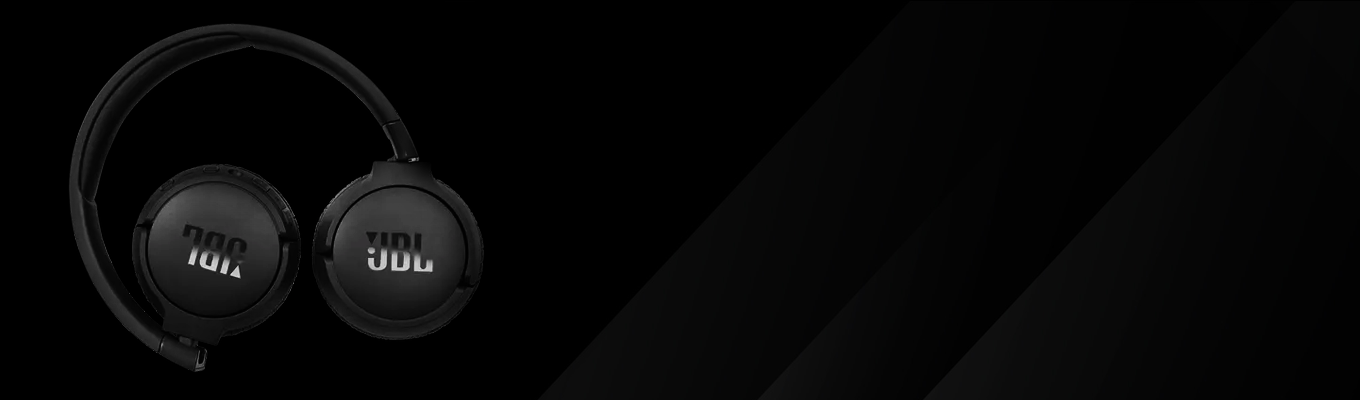
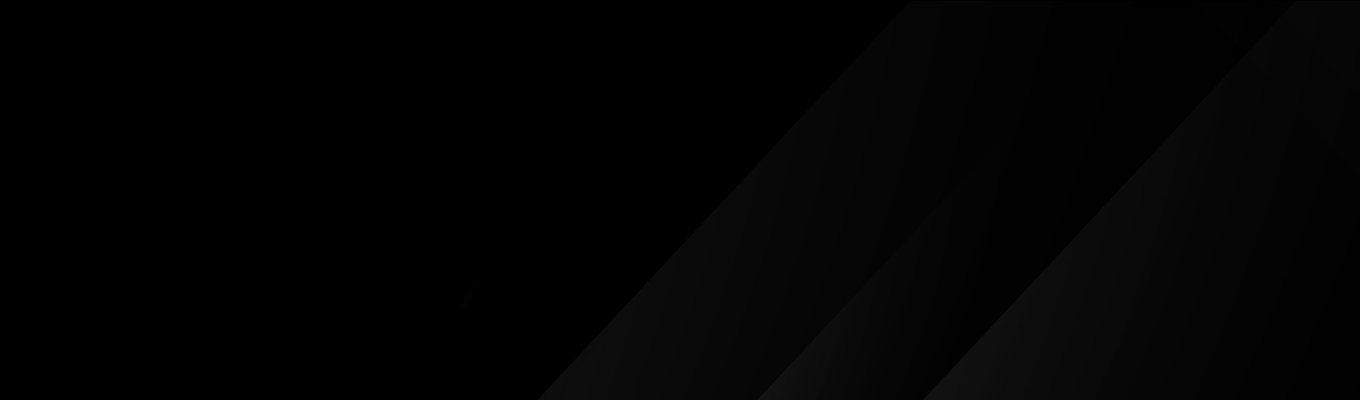
Att

Changed region(s): [[0.0309, 0.06, 0.3706, 0.93]]

diff --git a/css/style.css b/css/style.css
@@ -155,11 +155,13 @@ div#img2{
     background-image: url(../imagens/333.png);
     width: 100%;
     height: 400px;
-    box-shadow: inset 0px 10px 30px black;
+    box-shadow: inset 20px 50px 100px black;
+    display: flex;
+
 }
 div#info2{
     position: absolute;
-    right: 50px;
+    left: 50px;
 }
 div#info2 > h2 {
     font-size: 3em;
@@ -183,4 +185,10 @@ footer > p {
     font-size: 0.8em;
     text-align: center;
     font-family: sans-serif;
+}
+div#img3{
+    background-image: url(../imagens/teste.png);
+    height: 400px;
+    width: 500px;
+    box-shadow: inset 2px 0px 5px black;
 }

diff --git a/index.html b/index.html
@@ -55,6 +55,7 @@
                 </div>
             </div>
             <div id="img2">
+                <div id="img3" data-aos="fade-right"></div>
                 <div data-aos="fade-up">
                     <div id="info2" >
                         <h2>Até 44 horas de bateria</h2>
